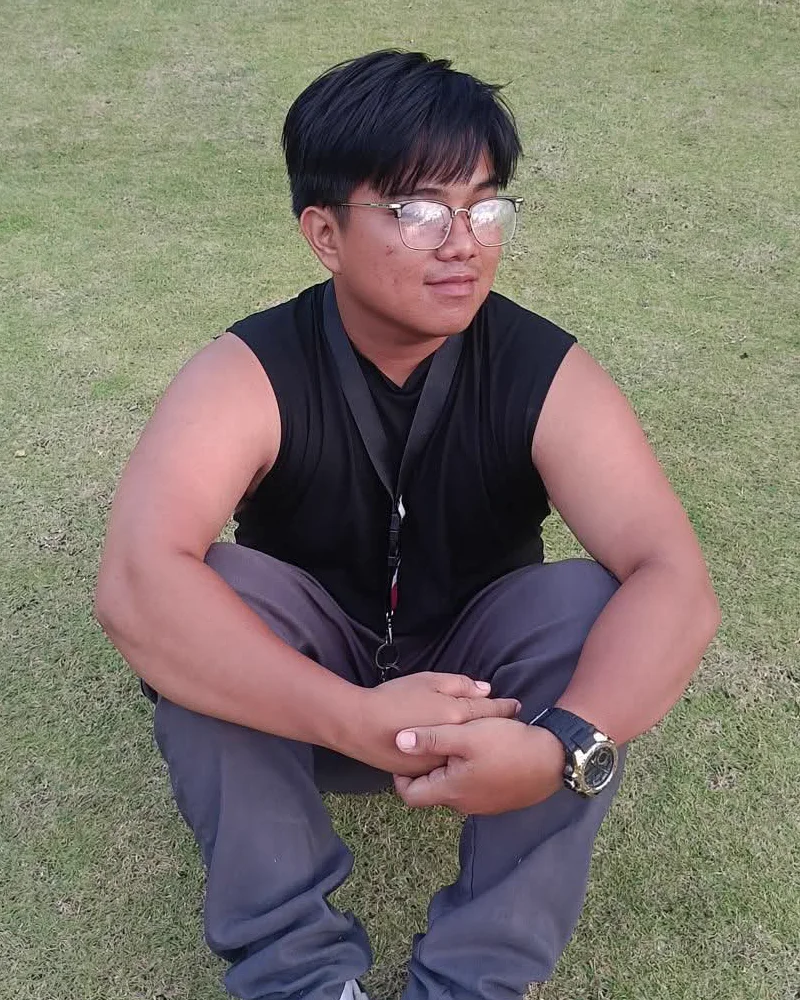
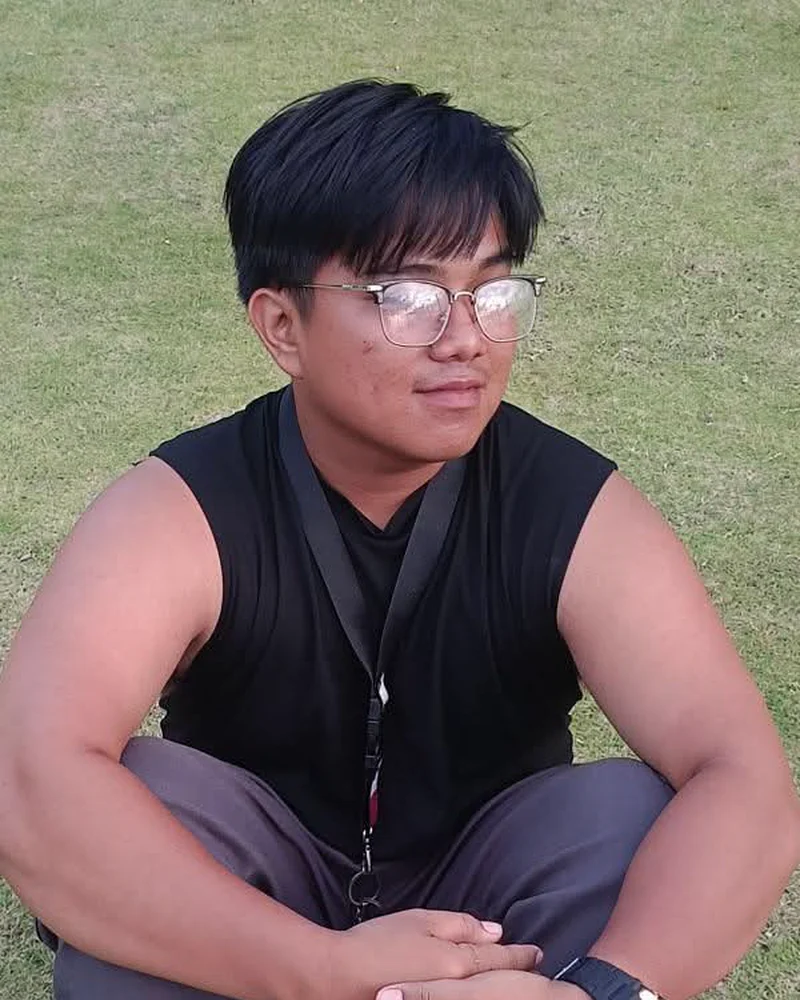
Publish additional team portraits and updated photo

diff --git a/content/team.ts b/content/team.ts
@@ -19,10 +19,10 @@ export const team: TeamMember[] = [];
 /** The studio's people, on the About Us page. */
 export const people: TeamMember[] = [
   { name: "Jenneth Estrada", role: null, portrait: "/team/jenneth-estrada.webp" },
-  { name: "Remar Ugsimar", role: "Full-stack developer", portrait: null },
+  { name: "Remar Ugsimar", role: "Full-stack developer", portrait: "/team/remar-ugsimar.webp" },
   { name: "Rolex Zhyronne Batican", role: "Full-stack developer, AI engineer & UI/UX designer", portrait: "/team/rolex-zhyronne-batican.webp" },
-  { name: "Nathaniel Languido", role: null, portrait: null },
+  { name: "Nathaniel Languido", role: null, portrait: "/team/nathaniel-languido.webp" },
   { name: "Aaron Demol", role: null, portrait: null },
   { name: "John Reynan Montejo", role: null, portrait: null },
-  { name: "Gil Denver Vergara", role: null, portrait: null },
+  { name: "Gil Denver Vergara", role: null, portrait: "/team/gil-denver-vergara.webp" },
 ];
